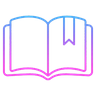
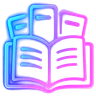
Home: wider day subtitle, all-days next to the hero button, AI-podruzhka, six-tile grid, current sprint first
Igra v dolguyu moves from a wide card to a tile; new Handbooks tile marked soon; new
neon icons cut to transparent at 96px. Web only, the Telegram mini-apps are untouched.
app.js?v=142, style.css?v=83.

diff --git a/index.html b/index.html
@@ -35,7 +35,7 @@
   <meta name="apple-mobile-web-app-status-bar-style" content="black-translucent">
   <meta name="apple-mobile-web-app-title" content="Ирена Био">
 
-  <link rel="stylesheet" href="style.css?v=82">
+  <link rel="stylesheet" href="style.css?v=83">
   <!-- Заголовки Playfair Display Medium, интерфейс Onest. Файлы Google Fonts у себя (с 01.10.2026),
        собирает biohack/tools/irenabio-app/build_fonts.py. Браузер качает только нужные
        подмножества по unicode-range, как и с Google. -->
@@ -330,31 +330,25 @@
 
           <div class="home-tools-h">Твои инструменты</div>
 
-          <!-- Подружка вынесена из сетки в широкую карточку на брендовом градиенте (макет).
+          <!-- ИИ-подружка: единственная широкая карточка (03.10), название как на витрине.
                data-app читает тот же делегат, что и плитки. -->
           <div class="home-wide wide-flat" data-app="podruzhka" role="button">
             <img class="home-wide-ic" src="icons/podruzhka-card.png?v=1" alt="" width="66" height="66">
             <div class="home-wide-txt">
-              <b>Подружка</b>
+              <b>ИИ-подружка</b>
               <span class="home-wide-sub">спроси про добавки, цикл, самочувствие</span>
             </div>
           </div>
 
-          <!-- Курс «Игра в долгую» (мини-апп dolgaya): та же широкая карточка, что у Подружки.
-               Вход по токену платформы через openMiniApp, как у плиток. -->
-          <div class="home-wide wide-flat" data-app="dolgaya" role="button">
-            <img class="home-wide-ic" src="icons/dolgaya-card.png?v=1" alt="" width="66" height="66">
-            <div class="home-wide-txt">
-              <b>Игра в долгую</b>
-              <span class="home-wide-sub">курс об отношениях · 7 сезонов</span>
-            </div>
-          </div>
-
-          <!-- Сетка 2x2. Справочники убраны: аппа не существует, плитка вела в никуда. -->
+          <!-- Сетка 2x3 (03.10). «Игра в долгую» стала плиткой (data-app="dolgaya", тот же вход
+               через openMiniApp). «Справочники» пока без действия, с меткой «скоро».
+               «Все спринты» всегда последней, справа внизу. -->
           <div class="home-tools">
             <div class="t5" data-group="trainings" role="button"><img class="t5ic" src="icons/trainings.png?v=1" alt="" width="32" height="32"><div class="t5n">Тренировки</div><div class="t5s">и упражнения</div></div>
             <div class="t5" data-app="relax" role="button"><img class="t5ic" src="icons/relax.png?v=1" alt="" width="32" height="32"><div class="t5n">Расслабление</div><div class="t5s">медитации, дыхание</div></div>
             <div class="t5" data-group="trackers" role="button"><img class="t5ic" src="icons/trackers.png?v=1" alt="" width="32" height="32"><div class="t5n">Трекеры</div><div class="t5s">здоровье и цикл</div></div>
+            <div class="t5 t5-handbook" aria-disabled="true"><span class="sc-chip sc-chip-soft">скоро</span><img class="t5ic" src="icons/handbook.png?v=2" alt="" width="32" height="32"><div class="t5n">Справочники</div><div class="t5s">добавки, анализы</div></div>
+            <div class="t5" data-app="dolgaya" role="button"><img class="t5ic" src="icons/dolgaya.png?v=1" alt="" width="32" height="32"><div class="t5n">Игра в долгую</div><div class="t5s">курс об отношениях</div></div>
             <div class="t5 t5-archive" role="button"><img class="t5ic" src="icons/sprints.png?v=1" alt="" width="32" height="32"><div class="t5n">Все спринты</div><div class="t5s">библиотека</div></div>
           </div>
 
@@ -840,6 +834,6 @@
   <!-- supabase-js у себя, версия закреплена (была плавающая @2 с jsdelivr). Обновлять осознанно:
        скачать новую umd в vendor/ и поменять имя файла здесь. -->
   <script src="vendor/supabase-2.117.2.js"></script>
-  <script src="app.js?v=141"></script>
+  <script src="app.js?v=142"></script>
 </body>
 </html>

diff --git a/style.css b/style.css
@@ -369,13 +369,11 @@ a:hover { text-decoration: underline; }
 .home-kicker { font-size: 11px; font-weight: 600; color: rgba(255,255,255,.72); letter-spacing: 2.4px; text-transform: uppercase; }
 .home-headline { font-size: 40px; font-weight: 500; line-height: 1.04; color: #fff; margin: 12px 0 10px; overflow-wrap: break-word; word-wrap: break-word; text-shadow: 0 2px 18px rgba(40,6,24,.55); }
 .home-headline.long { font-size: 30px; }              /* длинное имя дня -> мельче, БЕЗ многоточия */
-/* 210 - выбрано ЗАМЕРОМ, не на глаз: только на этой ширине первая строка перестаёт
-   доставать до светлых лепестков лотоса и контраст берёт порог AA 4.5 на всех семи
-   обложках (на 270 и 240 - 2.37 и 3.92). Затемнением это не лечилось в принципе.
-   ПОД НАБЛЮДЕНИЕМ: 210 - это чуть больше половины ширины экрана; если на живом
-   телефоне строка станет похожа на узкий колодец, решать иначе - например увести
-   подзаголовок вниз под пилюлю, где фон и так тёмный. */
-.home-subhead { font-size: 13.5px; line-height: 1.5; color: rgba(255,255,255,.8); max-width: 210px; overflow-wrap: break-word; text-shadow: 0 1px 12px rgba(40,6,24,.6); }
+/* Подпись на всю ширину (решение Владлена 03.10): узкая колонка 210px давала три строки
+   и высокую шапку. 210 когда-то выбрали замером контраста на светлых лепестках лотоса
+   (обложка Омоложения); там, где подпись ляжет на светлое, держит тень текста. */
+.home-subhead { font-size: 13.5px; line-height: 1.5; color: rgba(255,255,255,.86); overflow-wrap: break-word;
+  text-shadow: 0 1px 3px rgba(20,4,14,.75), 0 1px 12px rgba(40,6,24,.6); }
 /* Пилюля-плеер из макета. Волны и таймера НЕТ осознанно: get-home не отдаёт ни
    ссылку на аудио, ни длительность, рисовать их было бы враньём. Ведёт на день. */
 .home-cta {
@@ -490,6 +488,10 @@ a:hover { text-decoration: underline; }
 .home-wide-sub { font-size: 12.5px; color: rgba(255,255,255,.82); }
 
 .home-tools { display: grid; grid-template-columns: 1fr 1fr; gap: 12px; margin-bottom: 20px; }
+/* Кнопка героя и «все дни» одной строкой (03.10). */
+.home-cta-row { display: flex; align-items: center; gap: 10px; margin-top: 16px; }
+.home-cta-row .home-cta { margin-top: 0; }
+.home-cta-row .hero-alldays { margin-left: auto; }
 .home .t5 {
   position: relative; isolation: isolate; overflow: hidden; cursor: pointer;
   background: var(--tile); border: 1px solid var(--border); border-radius: 20px;
@@ -523,6 +525,8 @@ a:hover { text-decoration: underline; }
 .home .t5[data-app="relax"]       { --smoke-a: rgba(176,112,240,.58); --smoke-b: rgba(228,96,180,.46); }
 .home .t5[data-group="trackers"]  { --smoke-a: rgba(246,168,92,.52);  --smoke-b: rgba(196,62,96,.50); }
 .home .t5-archive                 { --smoke-a: rgba(92,142,244,.50);  --smoke-b: rgba(138,82,236,.54); }
+.home .t5[data-app="dolgaya"]     { --smoke-a: rgba(96,180,250,.46);  --smoke-b: rgba(240,90,190,.52); }
+.home .t5-handbook                { --smoke-a: rgba(110,140,250,.44); --smoke-b: rgba(236,96,170,.44); cursor: default; }
 /* Картиночные иконки плиток. Файлы 96px = @3x к отрисовке 32.
    Свечение берёт ЦВЕТА СВОЕЙ ПЛИТКИ, а не белый: белое даёт ватный ореол, цветное -
    неон. align-self обязателен - в колоночном флексе картинка иначе тянется по ширине. */

diff --git a/app.js b/app.js
@@ -1146,6 +1146,9 @@ const homeEls = {
   progressBar: document.getElementById("home-progress-bar"),
   progressRow: document.getElementById("home-progress-row"),
   progressCount: document.getElementById("home-count"),
+  // «все дни» переезжает в строку с кнопкой героя (03.10). Ссылку держим здесь: herobox
+  // перерисовывается через innerHTML, и после этого getElementById её уже не найдёт.
+  allDays: document.getElementById("home-alldays"),
   live: document.getElementById("home-live"),
   liveTitle: document.getElementById("home-live-title"),
   liveKick: document.getElementById("home-live-kick"),
@@ -1653,6 +1656,14 @@ function renderHome(data) {
     setKicker(document.getElementById("home-kick"), sprintTitle, whole ? "Пройден" : "Вы в графике");
   }
 
+  // --- «все дни» в одну строку с кнопкой героя (03.10): шапка ниже на целую строку ---
+  const heroCta = homeEls.herobox.querySelector(".home-cta");
+  const ctaRow = document.createElement("div");
+  ctaRow.className = "home-cta-row";
+  if (heroCta) { heroCta.replaceWith(ctaRow); ctaRow.append(heroCta); }
+  else homeEls.herobox.append(ctaRow);
+  if (homeEls.allDays) ctaRow.append(homeEls.allDays);
+
   // --- прогресс (в герое, под кнопкой) ---
   const denom = denomOf(sprint, days);
   const hasProgress = !!sprint && days.length > 0;
@@ -1665,9 +1676,9 @@ function renderHome(data) {
     homeEls.progressCount.hidden = !hasProgress || !started;
     if (!started) homeEls.progressCount.textContent = "";   // не оставлять число от прошлого рендера
   }
-  if (homeEls.progressRow) homeEls.progressRow.hidden = !hasProgress;
-  // Без полосы строке нужен её собственный отступ от кнопки - иначе она прилипает.
-  if (homeEls.progressRow) homeEls.progressRow.classList.toggle("solo", hasProgress && !started);
+  // В строке прогресса остался один счётчик: у новичка она не нужна вовсе.
+  if (homeEls.progressRow) homeEls.progressRow.hidden = !hasProgress || !started;
+  if (homeEls.allDays) homeEls.allDays.hidden = !hasProgress;
   if (hasProgress && started) {
     // Тильды у идущего спринта тут НЕТ (было "18 из ~14" в старой карточке): строка
     // в 10px на обложке должна читаться с одного взгляда, знак съедал её собранность.
@@ -4256,6 +4267,9 @@ function openSprints() {
   // сортируем ПО ВОЗРАСТАНИЮ. На выбор героя это не влияет: он берётся из
   // pickCurrentSprint по status === "active", order_index там не участвует.
   const shelf = all.slice().sort((a, b) => (a.order_index || 0) - (b.order_index || 0));
+  // Текущий спринт первым (03.10), остальные в прежнем порядке.
+  const curIdx = current ? shelf.findIndex((s) => s.id === current.id) : -1;
+  if (curIdx > 0) shelf.unshift(shelf.splice(curIdx, 1)[0]);
   hideContentViews();
   document.getElementById("view-sprints").hidden = false;
   let html = "";
